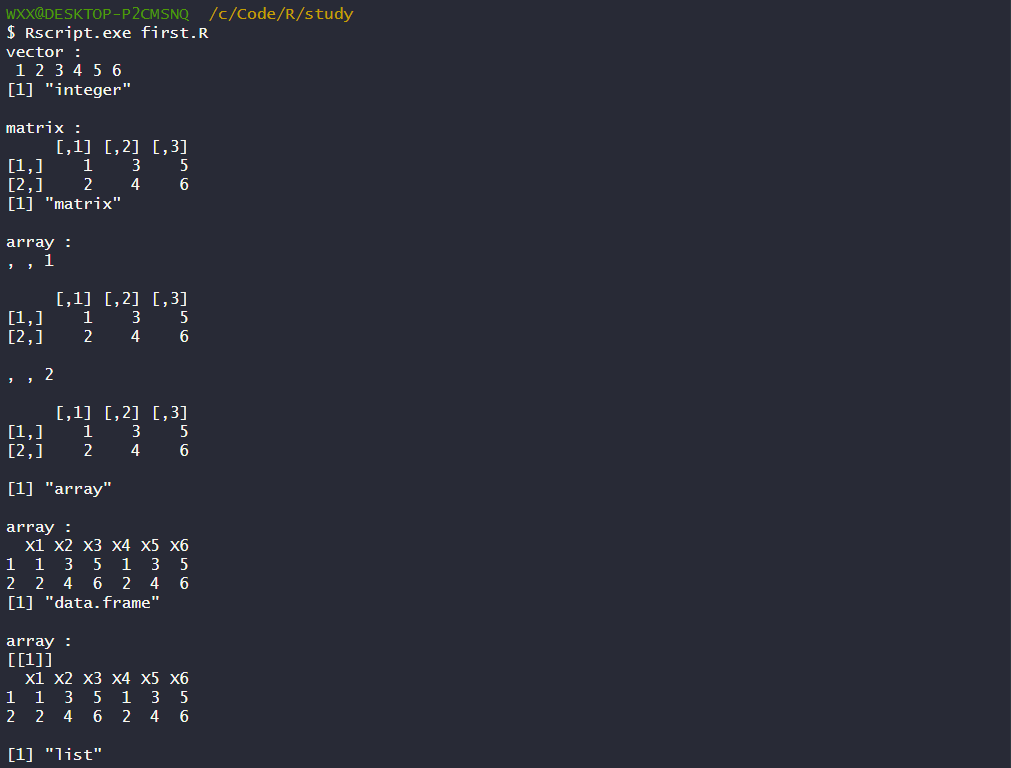
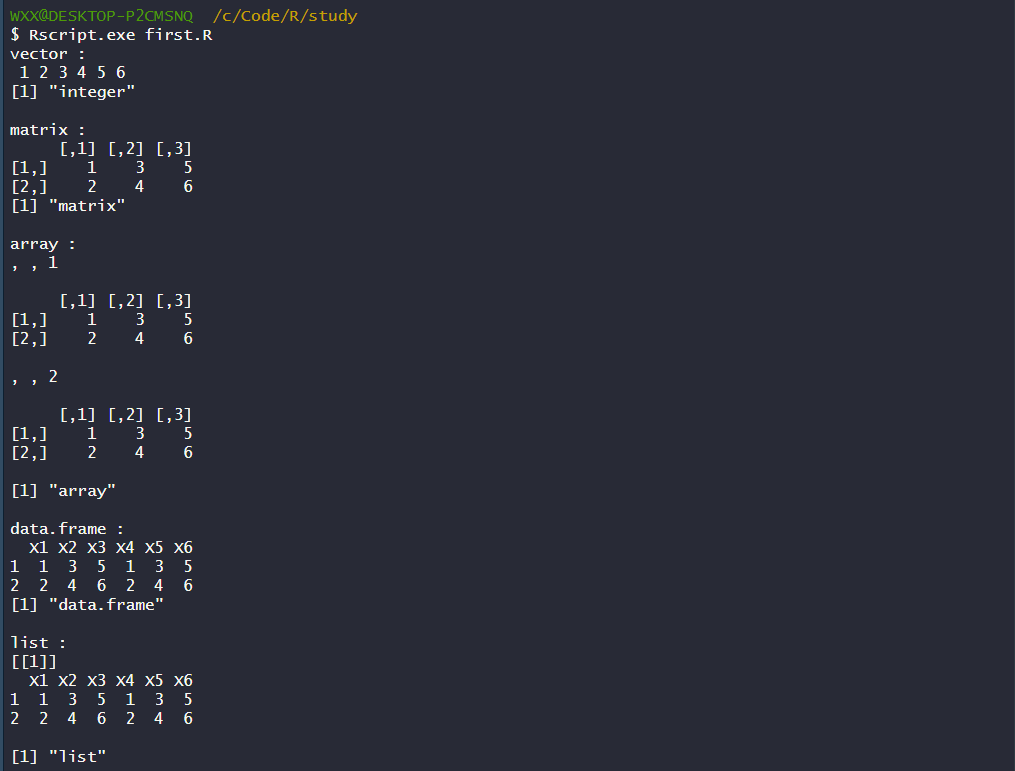
Site updated: 2019-09-05 13:38:26

Changed region(s): [[0.0, 0.0, 0.368, 1.0], [0.184, 0.4062, 0.2146, 0.4375]]

diff --git a/2019/09/05/R语言中vector、matrix、array、dataframe、list的区别与联系/index.html b/2019/09/05/R语言中vector、matrix、array、dataframe、list的区别与联系/index.html
@@ -18,7 +18,7 @@
 <meta property="og:locale" content="en">
 <meta property="og:image" content="http://yoursite.com/2019/09/05/R语言中vector、matrix、array、dataframe、list的区别与联系/1.png">
 <meta property="og:image" content="http://yoursite.com/2019/09/05/R语言中vector、matrix、array、dataframe、list的区别与联系/2.png">
-<meta property="og:updated_time" content="2019-09-05T12:01:21.199Z">
+<meta property="og:updated_time" content="2019-09-05T13:37:51.681Z">
 <meta name="twitter:card" content="summary">
 <meta name="twitter:title" content="R语言中vector、matrix、array、dataframe、list的区别与联系">
 <meta name="twitter:description" content="这几者的关系如下（为相互包含关系）：   演示代码如下： 12345678910111213141516171819202122232425262728293031323334353637if(FALSE)&amp;#123;  &quot;R语言中vector、matrix、array、dataframe、list的区别与联系&quot;&amp;#125;# vectora &amp;lt;- c(1:6)cat(&quot;vector : &quot;">
@@ -182,7 +182,7 @@
 <p><img src="/2019/09/05/R语言中vector、matrix、array、dataframe、list的区别与联系/1.png" alt="img"></p>
 <hr>
 <p><strong>演示代码如下：</strong></p>
-<figure class="highlight r"><table><tr><td class="gutter"><pre><span class="line">1</span><br><span class="line">2</span><br><span class="line">3</span><br><span class="line">4</span><br><span class="line">5</span><br><span class="line">6</span><br><span class="line">7</span><br><span class="line">8</span><br><span class="line">9</span><br><span class="line">10</span><br><span class="line">11</span><br><span class="line">12</span><br><span class="line">13</span><br><span class="line">14</span><br><span class="line">15</span><br><span class="line">16</span><br><span class="line">17</span><br><span class="line">18</span><br><span class="line">19</span><br><span class="line">20</span><br><span class="line">21</span><br><span class="line">22</span><br><span class="line">23</span><br><span class="line">24</span><br><span class="line">25</span><br><span class="line">26</span><br><span class="line">27</span><br><span class="line">28</span><br><span class="line">29</span><br><span class="line">30</span><br><span class="line">31</span><br><span class="line">32</span><br><span class="line">33</span><br><span class="line">34</span><br><span class="line">35</span><br><span class="line">36</span><br><span class="line">37</span><br></pre></td><td class="code"><pre><span class="line"><span class="keyword">if</span>(<span class="literal">FALSE</span>)&#123;</span><br><span class="line">  <span class="string">"R语言中vector、matrix、array、dataframe、list的区别与联系"</span></span><br><span class="line">&#125;</span><br><span class="line"></span><br><span class="line"><span class="comment"># vector</span></span><br><span class="line">a &lt;- c(<span class="number">1</span>:<span class="number">6</span>)</span><br><span class="line">cat(<span class="string">"vector : "</span>, <span class="string">"\n"</span>, a , <span class="string">"\n"</span>)</span><br><span class="line">print(class(a))</span><br><span class="line">cat(<span class="string">"\n"</span>)</span><br><span class="line"></span><br><span class="line"><span class="comment"># matrix</span></span><br><span class="line">b &lt;- matrix(a, nrow = <span class="number">2</span>, ncol = <span class="number">3</span>)</span><br><span class="line">cat(<span class="string">"matrix : "</span>, <span class="string">"\n"</span>)</span><br><span class="line">print(b)</span><br><span class="line">print(class(b))</span><br><span class="line">cat(<span class="string">"\n"</span>)</span><br><span class="line"></span><br><span class="line"><span class="comment"># array</span></span><br><span class="line">c &lt;- array(b, dim = c(<span class="number">2</span>, <span class="number">3</span>, <span class="number">2</span>))</span><br><span class="line">cat(<span class="string">"array : "</span>, <span class="string">"\n"</span>)</span><br><span class="line">print(c)</span><br><span class="line">print(class(c))</span><br><span class="line">cat(<span class="string">"\n"</span>)</span><br><span class="line"></span><br><span class="line"><span class="comment"># data.frame</span></span><br><span class="line">d &lt;- data.frame(c)</span><br><span class="line">cat(<span class="string">"array : "</span>, <span class="string">"\n"</span>)</span><br><span class="line">print(d)</span><br><span class="line">print(class(d))</span><br><span class="line">cat(<span class="string">"\n"</span>)</span><br><span class="line"></span><br><span class="line"><span class="comment"># list</span></span><br><span class="line">e &lt;- list(d)</span><br><span class="line">cat(<span class="string">"array : "</span>, <span class="string">"\n"</span>)</span><br><span class="line">print(e)</span><br><span class="line">print(class(e))</span><br><span class="line">cat(<span class="string">"\n"</span>)</span><br></pre></td></tr></table></figure>
+<figure class="highlight r"><table><tr><td class="gutter"><pre><span class="line">1</span><br><span class="line">2</span><br><span class="line">3</span><br><span class="line">4</span><br><span class="line">5</span><br><span class="line">6</span><br><span class="line">7</span><br><span class="line">8</span><br><span class="line">9</span><br><span class="line">10</span><br><span class="line">11</span><br><span class="line">12</span><br><span class="line">13</span><br><span class="line">14</span><br><span class="line">15</span><br><span class="line">16</span><br><span class="line">17</span><br><span class="line">18</span><br><span class="line">19</span><br><span class="line">20</span><br><span class="line">21</span><br><span class="line">22</span><br><span class="line">23</span><br><span class="line">24</span><br><span class="line">25</span><br><span class="line">26</span><br><span class="line">27</span><br><span class="line">28</span><br><span class="line">29</span><br><span class="line">30</span><br><span class="line">31</span><br><span class="line">32</span><br><span class="line">33</span><br><span class="line">34</span><br><span class="line">35</span><br><span class="line">36</span><br><span class="line">37</span><br></pre></td><td class="code"><pre><span class="line"><span class="keyword">if</span>(<span class="literal">FALSE</span>)&#123;</span><br><span class="line">  <span class="string">"R语言中vector、matrix、array、dataframe、list的区别与联系"</span></span><br><span class="line">&#125;</span><br><span class="line"></span><br><span class="line"><span class="comment"># vector</span></span><br><span class="line">a &lt;- c(<span class="number">1</span>:<span class="number">6</span>)</span><br><span class="line">cat(<span class="string">"vector : "</span>, <span class="string">"\n"</span>, a , <span class="string">"\n"</span>)</span><br><span class="line">print(class(a))</span><br><span class="line">cat(<span class="string">"\n"</span>)</span><br><span class="line"></span><br><span class="line"><span class="comment"># matrix</span></span><br><span class="line">b &lt;- matrix(a, nrow = <span class="number">2</span>, ncol = <span class="number">3</span>)</span><br><span class="line">cat(<span class="string">"matrix : "</span>, <span class="string">"\n"</span>)</span><br><span class="line">print(b)</span><br><span class="line">print(class(b))</span><br><span class="line">cat(<span class="string">"\n"</span>)</span><br><span class="line"></span><br><span class="line"><span class="comment"># array</span></span><br><span class="line">c &lt;- array(b, dim = c(<span class="number">2</span>, <span class="number">3</span>, <span class="number">2</span>))</span><br><span class="line">cat(<span class="string">"array : "</span>, <span class="string">"\n"</span>)</span><br><span class="line">print(c)</span><br><span class="line">print(class(c))</span><br><span class="line">cat(<span class="string">"\n"</span>)</span><br><span class="line"></span><br><span class="line"><span class="comment"># data.frame</span></span><br><span class="line">d &lt;- data.frame(c)</span><br><span class="line">cat(<span class="string">"data.frame : "</span>, <span class="string">"\n"</span>)</span><br><span class="line">print(d)</span><br><span class="line">print(class(d))</span><br><span class="line">cat(<span class="string">"\n"</span>)</span><br><span class="line"></span><br><span class="line"><span class="comment"># list</span></span><br><span class="line">e &lt;- list(d)</span><br><span class="line">cat(<span class="string">"list : "</span>, <span class="string">"\n"</span>)</span><br><span class="line">print(e)</span><br><span class="line">print(class(e))</span><br><span class="line">cat(<span class="string">"\n"</span>)</span><br></pre></td></tr></table></figure>
 
 <p>代码运行结果如下：</p>
 <p><img src="/2019/09/05/R语言中vector、matrix、array、dataframe、list的区别与联系/2.png" alt="img"></p>

diff --git a/index.html b/index.html
@@ -176,7 +176,7 @@
 <p><img src="/2019/09/05/R语言中vector、matrix、array、dataframe、list的区别与联系/1.png" alt="img"></p>
 <hr>
 <p><strong>演示代码如下：</strong></p>
-<figure class="highlight r"><table><tr><td class="gutter"><pre><span class="line">1</span><br><span class="line">2</span><br><span class="line">3</span><br><span class="line">4</span><br><span class="line">5</span><br><span class="line">6</span><br><span class="line">7</span><br><span class="line">8</span><br><span class="line">9</span><br><span class="line">10</span><br><span class="line">11</span><br><span class="line">12</span><br><span class="line">13</span><br><span class="line">14</span><br><span class="line">15</span><br><span class="line">16</span><br><span class="line">17</span><br><span class="line">18</span><br><span class="line">19</span><br><span class="line">20</span><br><span class="line">21</span><br><span class="line">22</span><br><span class="line">23</span><br><span class="line">24</span><br><span class="line">25</span><br><span class="line">26</span><br><span class="line">27</span><br><span class="line">28</span><br><span class="line">29</span><br><span class="line">30</span><br><span class="line">31</span><br><span class="line">32</span><br><span class="line">33</span><br><span class="line">34</span><br><span class="line">35</span><br><span class="line">36</span><br><span class="line">37</span><br></pre></td><td class="code"><pre><span class="line"><span class="keyword">if</span>(<span class="literal">FALSE</span>)&#123;</span><br><span class="line">  <span class="string">"R语言中vector、matrix、array、dataframe、list的区别与联系"</span></span><br><span class="line">&#125;</span><br><span class="line"></span><br><span class="line"><span class="comment"># vector</span></span><br><span class="line">a &lt;- c(<span class="number">1</span>:<span class="number">6</span>)</span><br><span class="line">cat(<span class="string">"vector : "</span>, <span class="string">"\n"</span>, a , <span class="string">"\n"</span>)</span><br><span class="line">print(class(a))</span><br><span class="line">cat(<span class="string">"\n"</span>)</span><br><span class="line"></span><br><span class="line"><span class="comment"># matrix</span></span><br><span class="line">b &lt;- matrix(a, nrow = <span class="number">2</span>, ncol = <span class="number">3</span>)</span><br><span class="line">cat(<span class="string">"matrix : "</span>, <span class="string">"\n"</span>)</span><br><span class="line">print(b)</span><br><span class="line">print(class(b))</span><br><span class="line">cat(<span class="string">"\n"</span>)</span><br><span class="line"></span><br><span class="line"><span class="comment"># array</span></span><br><span class="line">c &lt;- array(b, dim = c(<span class="number">2</span>, <span class="number">3</span>, <span class="number">2</span>))</span><br><span class="line">cat(<span class="string">"array : "</span>, <span class="string">"\n"</span>)</span><br><span class="line">print(c)</span><br><span class="line">print(class(c))</span><br><span class="line">cat(<span class="string">"\n"</span>)</span><br><span class="line"></span><br><span class="line"><span class="comment"># data.frame</span></span><br><span class="line">d &lt;- data.frame(c)</span><br><span class="line">cat(<span class="string">"array : "</span>, <span class="string">"\n"</span>)</span><br><span class="line">print(d)</span><br><span class="line">print(class(d))</span><br><span class="line">cat(<span class="string">"\n"</span>)</span><br><span class="line"></span><br><span class="line"><span class="comment"># list</span></span><br><span class="line">e &lt;- list(d)</span><br><span class="line">cat(<span class="string">"array : "</span>, <span class="string">"\n"</span>)</span><br><span class="line">print(e)</span><br><span class="line">print(class(e))</span><br><span class="line">cat(<span class="string">"\n"</span>)</span><br></pre></td></tr></table></figure>
+<figure class="highlight r"><table><tr><td class="gutter"><pre><span class="line">1</span><br><span class="line">2</span><br><span class="line">3</span><br><span class="line">4</span><br><span class="line">5</span><br><span class="line">6</span><br><span class="line">7</span><br><span class="line">8</span><br><span class="line">9</span><br><span class="line">10</span><br><span class="line">11</span><br><span class="line">12</span><br><span class="line">13</span><br><span class="line">14</span><br><span class="line">15</span><br><span class="line">16</span><br><span class="line">17</span><br><span class="line">18</span><br><span class="line">19</span><br><span class="line">20</span><br><span class="line">21</span><br><span class="line">22</span><br><span class="line">23</span><br><span class="line">24</span><br><span class="line">25</span><br><span class="line">26</span><br><span class="line">27</span><br><span class="line">28</span><br><span class="line">29</span><br><span class="line">30</span><br><span class="line">31</span><br><span class="line">32</span><br><span class="line">33</span><br><span class="line">34</span><br><span class="line">35</span><br><span class="line">36</span><br><span class="line">37</span><br></pre></td><td class="code"><pre><span class="line"><span class="keyword">if</span>(<span class="literal">FALSE</span>)&#123;</span><br><span class="line">  <span class="string">"R语言中vector、matrix、array、dataframe、list的区别与联系"</span></span><br><span class="line">&#125;</span><br><span class="line"></span><br><span class="line"><span class="comment"># vector</span></span><br><span class="line">a &lt;- c(<span class="number">1</span>:<span class="number">6</span>)</span><br><span class="line">cat(<span class="string">"vector : "</span>, <span class="string">"\n"</span>, a , <span class="string">"\n"</span>)</span><br><span class="line">print(class(a))</span><br><span class="line">cat(<span class="string">"\n"</span>)</span><br><span class="line"></span><br><span class="line"><span class="comment"># matrix</span></span><br><span class="line">b &lt;- matrix(a, nrow = <span class="number">2</span>, ncol = <span class="number">3</span>)</span><br><span class="line">cat(<span class="string">"matrix : "</span>, <span class="string">"\n"</span>)</span><br><span class="line">print(b)</span><br><span class="line">print(class(b))</span><br><span class="line">cat(<span class="string">"\n"</span>)</span><br><span class="line"></span><br><span class="line"><span class="comment"># array</span></span><br><span class="line">c &lt;- array(b, dim = c(<span class="number">2</span>, <span class="number">3</span>, <span class="number">2</span>))</span><br><span class="line">cat(<span class="string">"array : "</span>, <span class="string">"\n"</span>)</span><br><span class="line">print(c)</span><br><span class="line">print(class(c))</span><br><span class="line">cat(<span class="string">"\n"</span>)</span><br><span class="line"></span><br><span class="line"><span class="comment"># data.frame</span></span><br><span class="line">d &lt;- data.frame(c)</span><br><span class="line">cat(<span class="string">"data.frame : "</span>, <span class="string">"\n"</span>)</span><br><span class="line">print(d)</span><br><span class="line">print(class(d))</span><br><span class="line">cat(<span class="string">"\n"</span>)</span><br><span class="line"></span><br><span class="line"><span class="comment"># list</span></span><br><span class="line">e &lt;- list(d)</span><br><span class="line">cat(<span class="string">"list : "</span>, <span class="string">"\n"</span>)</span><br><span class="line">print(e)</span><br><span class="line">print(class(e))</span><br><span class="line">cat(<span class="string">"\n"</span>)</span><br></pre></td></tr></table></figure>
 
 <p>代码运行结果如下：</p>
 <p><img src="/2019/09/05/R语言中vector、matrix、array、dataframe、list的区别与联系/2.png" alt="img"></p>
